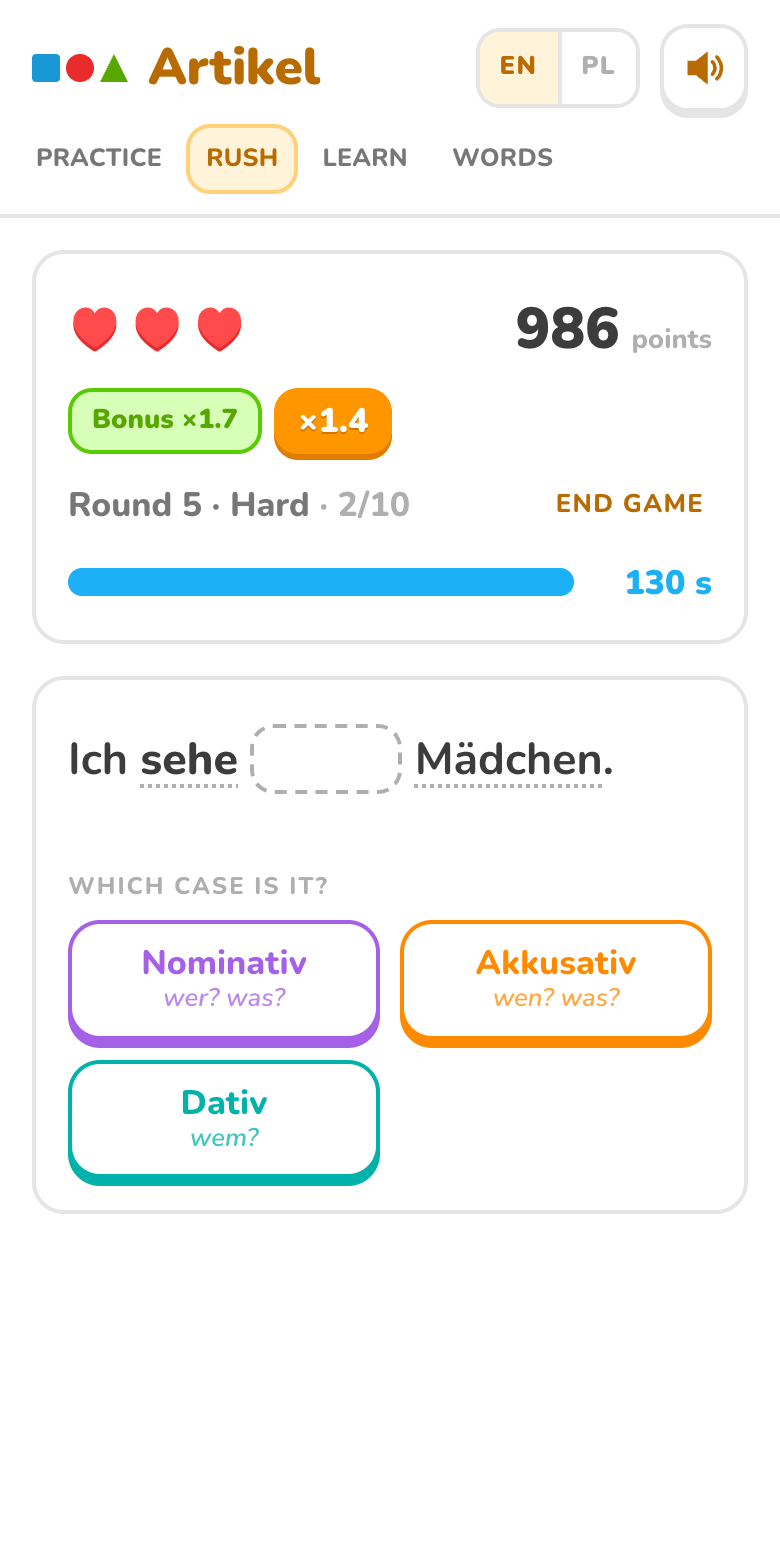
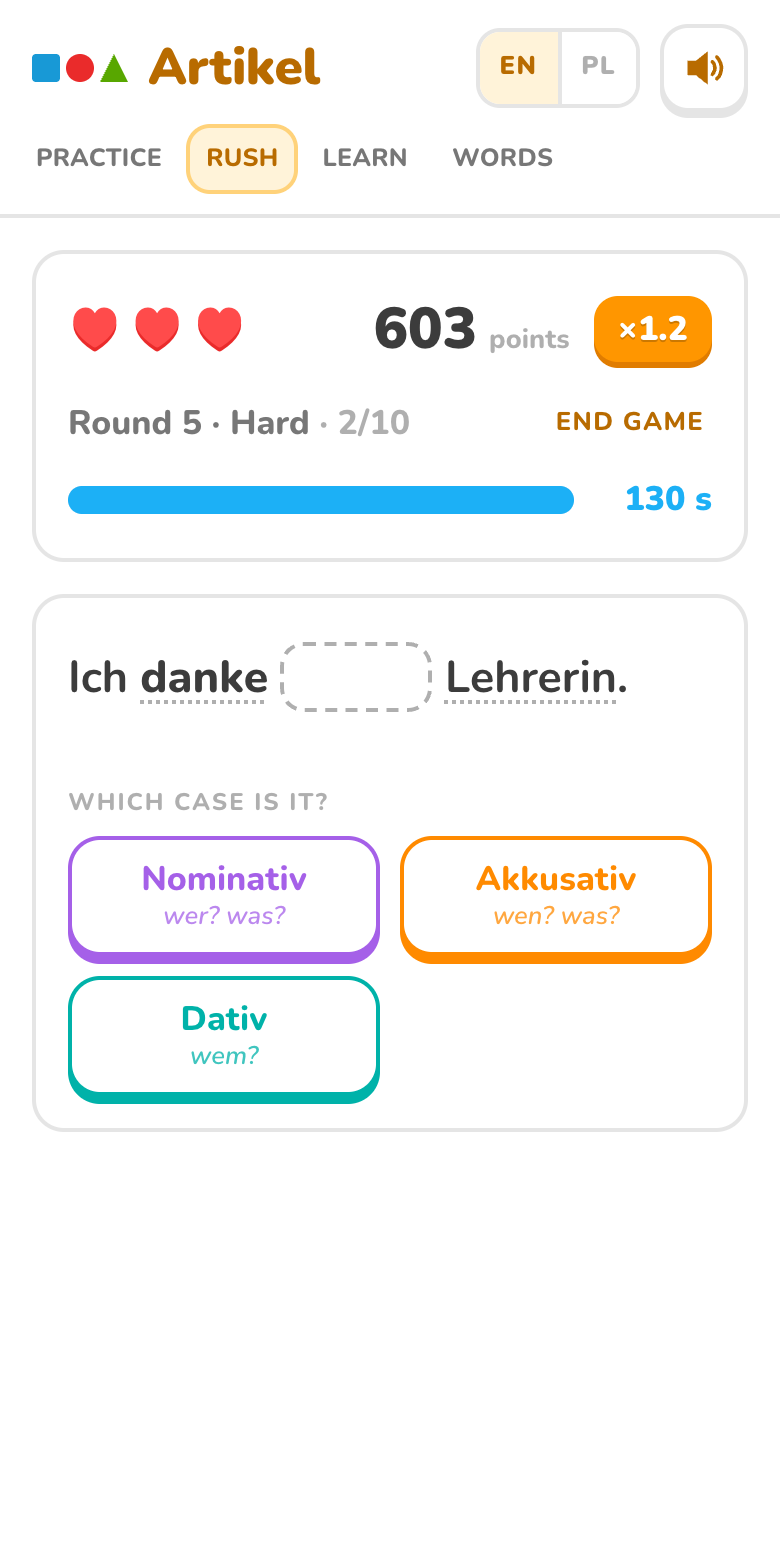
Rush: the start bonus is where the combo multiplier starts
Before, the start bonus and the combo multiplied each other (×1.7 × ×1.4).
Now the bonus is the combo's starting point: a Hard start plays at ×1.7,
×1.9 after 10 in a row, then the ×2.0 cap. After the first mistake the combo
starts from ×1.0 again. The score bar shows one multiplier badge, plus a
"Start bonus" label while the bonus lasts. Screenshots retaken.

diff --git a/js/game/engine.js b/js/game/engine.js
@@ -17,7 +17,7 @@ export function createGame(rules = RULES, startLevel = rules.startLevels[0].leve
   return withRound({
     over: false,
     startLevel: start.level,
-    // Multiplies all points until the first mistake, for starting at a harder level.
+    // The combo multiplier starts here instead of 1, until the first mistake (for a harder start).
     startBonus: start.bonus,
     round: 0, // index into rules.rounds; past the end means an endless round
     answeredInRound: 0,
@@ -52,10 +52,13 @@ export function roundSettings(index, cases, rules = RULES) {
   return settings;
 }
 
-/** Points multiplier for a number of right answers in a row, e.g. 1.2 for 10. */
-export function multiplier(combo, rules = RULES) {
+/**
+ * Points multiplier for a number of right answers in a row, e.g. 1.2 for 10.
+ * @param {number} [base] where it starts: 1, or a start bonus such as 1.7 (then 1.9 for 10 in a row)
+ */
+export function multiplier(combo, rules = RULES, base = 1) {
   const steps = Math.floor(combo / rules.combo.every);
-  return Math.min(rules.combo.max, Math.round((1 + steps * rules.combo.bonus) * 10) / 10);
+  return Math.min(rules.combo.max, Math.round((base + steps * rules.combo.bonus) * 10) / 10);
 }
 
 /** The player picked the wrong case. Costs the question's heart right away (see rules.hearts). */
@@ -78,12 +81,12 @@ export function answer(game, result, rules = RULES) {
   let next = { ...game, answeredInRound: game.answeredInRound + 1 };
 
   if (result === 'right') {
-    const before = multiplier(next.combo, rules);
+    const before = multiplier(next.combo, rules, next.startBonus);
     next.combo += 1;
     next.bestCombo = Math.max(next.bestCombo, next.combo);
-    const factor = multiplier(next.combo, rules);
+    const factor = multiplier(next.combo, rules, next.startBonus);
     if (factor > before) events.push({ type: 'comboUp', multiplier: factor });
-    next = addPoints(next, round.points * factor * next.startBonus, events);
+    next = addPoints(next, round.points * factor, events);
 
     if (round.timer) {
       next.timeLeft += round.timer.bonus * 1000;

diff --git a/js/ui/rush-view.js b/js/ui/rush-view.js
@@ -321,7 +321,7 @@ export function mountRushView(root, { wordSets, storage }) {
   function renderHud() {
     const { game, effects } = state;
     const round = roundConfig(game.round);
-    const factor = multiplier(game.combo);
+    const factor = multiplier(game.combo, RULES, game.startBonus);
 
     const hearts = Array.from({ length: RULES.hearts.max }, (_, i) => {
       let className = i < game.hearts ? 'heart' : 'heart empty';
@@ -339,8 +339,7 @@ export function mountRushView(root, { wordSets, storage }) {
           effects.flashes.map(({ text, kind }) => el('span', { class: `flash ${kind}`, 'aria-hidden': 'true' }, text)),
         ),
         (game.startBonus > 1 || factor > 1) && el('div', { class: 'hud-badges' },
-          game.startBonus > 1 && el('span', { class: 'start-bonus-badge', title: t('rush.bonusTitle') },
-            t('rush.bonus', { bonus: game.startBonus })),
+          game.startBonus > 1 && el('span', { class: 'start-bonus-badge', title: t('rush.bonusTitle') }, t('rush.bonus')),
           factor > 1 && el('span', { class: `combo${effects.comboUp ? ' bump' : ''}`, title: t('quiz.streakTitle', { count: game.combo }) },
             `×${factor}`)),
       ),

diff --git a/js/game/rules.js b/js/game/rules.js
@@ -19,6 +19,7 @@ export const RULES = {
 
   // Points are multiplied while answering right in a row:
   // ×1.2 from 10 in a row, ×1.4 from 20, … up to `max`. Points are rounded to whole numbers.
+  // A start bonus (startLevels below) raises the starting point: ×1.7, then ×1.9, then the max.
   combo: { every: 10, bonus: 0.2, max: 2 },
 
   // Right article but wrong case: a share of the points, and the combo ends.
@@ -26,8 +27,9 @@ export const RULES = {
   partial: { pointsShare: 0.5 },
 
   // Where a game can start: `round` is an index into `rounds` below, and `level` names it on the start
-  // screen (a difficulty preset). Skipping easy rounds multiplies all points by `bonus` until the first
-  // mistake (wrong case, wrong article, half-right or running out of time).
+  // screen (a difficulty preset). Skipping easy rounds starts the combo multiplier at `bonus` instead
+  // of 1 (still capped at combo.max), until the first mistake (wrong case, wrong article, half-right or
+  // running out of time).
   startLevels: [
     { level: 'easy', round: 0, bonus: 1 },
     { level: 'medium', round: 1, bonus: 1.4 },

diff --git a/tests/game-engine.test.js b/tests/game-engine.test.js
@@ -174,9 +174,12 @@ test('starting at a harder level skips rounds and gives a bonus until the first 
   assert.equal(after.score, 30 + 20); // no bonus after the mistake
 });
 
-test('the bonus and the combo multiply each other', () => {
+test('the start bonus is where the combo multiplier starts, and the cap still holds', () => {
+  assert.equal(multiplier(0, RULES, 1.5), 1.5);
+  assert.equal(multiplier(2, RULES, 1.5), 2); // 1.5 + 0.5
+  assert.equal(multiplier(4, RULES, 1.5), 2); // capped
   const { game } = play(createGame(RULES, 'hard'), ['right', 'right']);
-  assert.equal(game.score, 30 + Math.round(20 * 1.5 * 1.5)); // second answer: combo ×1.5, bonus ×1.5
+  assert.equal(game.score, 30 + 40); // ×1.5, then ×2.0 — not ×1.5 × ×1.5
 });
 
 test('a wrong case, a half-right answer or running out of time also ends the bonus', () => {

diff --git a/e2e/rush.spec.js b/e2e/rush.spec.js
@@ -173,7 +173,8 @@ test('starting at Hard skips to round 3 with a bonus that ends at the first mist
   await rush(page).getByRole('button', { name: 'Start' }).click();
 
   await expect(rush(page).locator('.round-banner')).toContainText('Round 3');
-  await expect(rush(page).locator('.start-bonus-badge')).toHaveText('Bonus ×1.7');
+  await expect(rush(page).locator('.start-bonus-badge')).toHaveText('Start bonus');
+  await expect(rush(page).locator('.combo')).toHaveText('×1.7'); // the multiplier starts at the bonus
 
   // Answer until the first mistake; the bonus badge then goes away.
   const card = rush(page).locator('.rush-card');

diff --git a/tests/game-rules.test.js b/tests/game-rules.test.js
@@ -35,6 +35,7 @@ test('start levels point at real rounds with the same level, and harder starts p
     assert.ok(PRESETS[start.level], `start level "${start.level}" is not a difficulty preset`);
     assert.equal(RULES.rounds[start.round]?.level, start.level, `start at "${start.level}" points to another level`);
     assert.ok(start.bonus >= 1 && start.bonus > previousBonus, `start at "${start.level}": bonus must grow`);
+    assert.ok(start.bonus <= RULES.combo.max, `start at "${start.level}": bonus above the combo cap`);
     previousBonus = start.bonus;
   }
   assert.equal(RULES.startLevels[0].round, 0);
